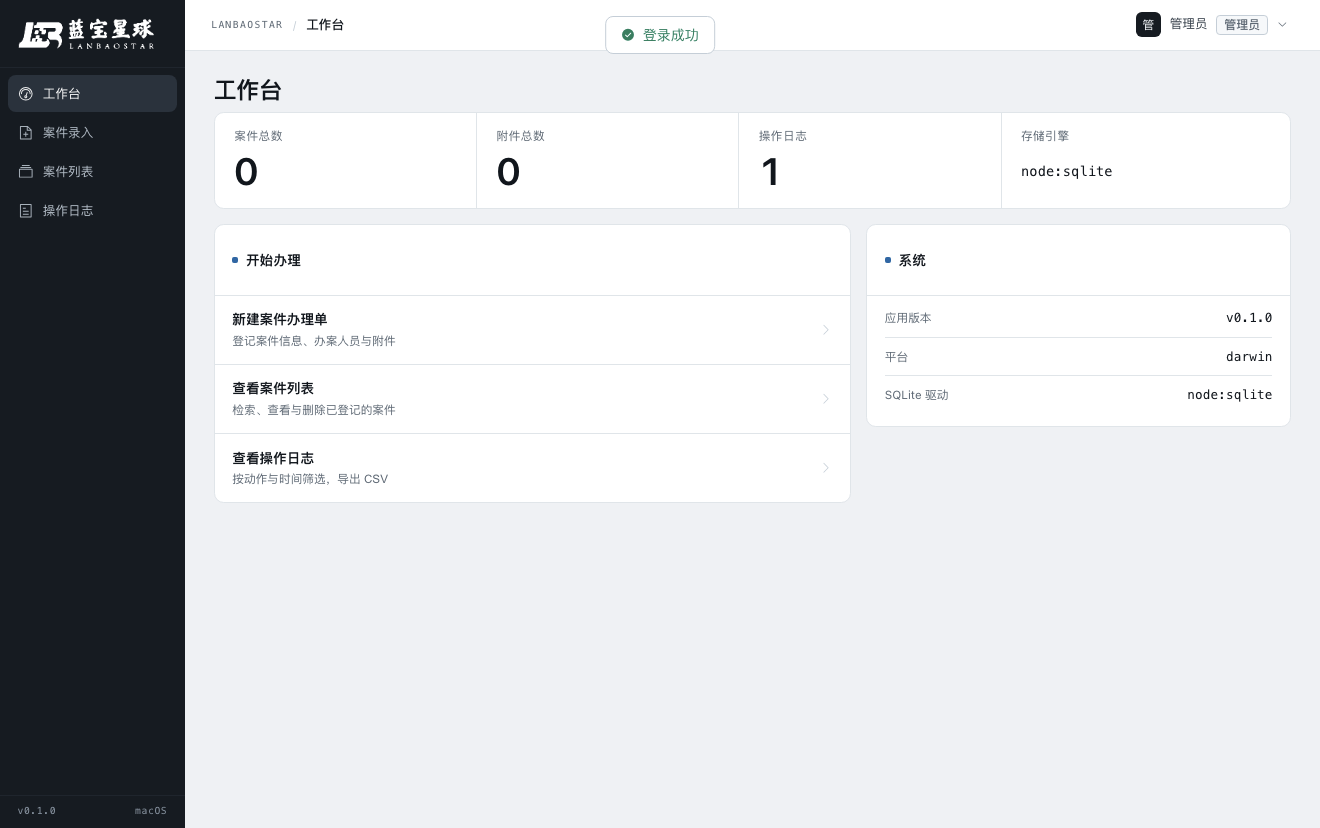
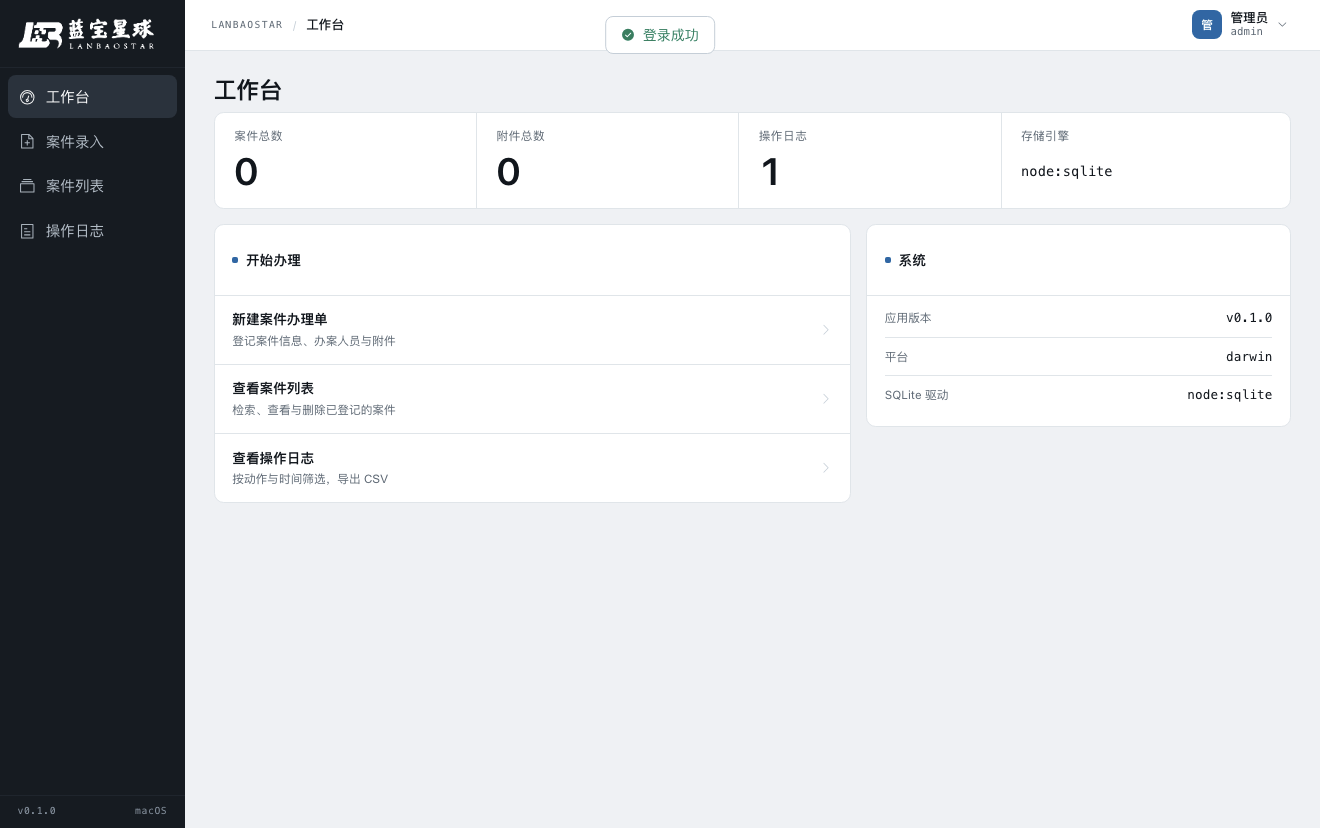
style: 登录页粒子星图、放大侧栏字号、重做顶栏用户区
- 新增 ParticleField.vue（canvas 星图，ResizeObserver + DPR，reduced-motion 只画一帧）
- 侧栏导航 13px -> 15px，行高 2.75rem
- 顶栏用户区改为 主色头像 + 姓名 + 等宽用户名，去掉重复的角色标签
- 重出 dmg / win zip，e2e 42 项与 detector 均通过

Changed region(s): [[0.0, 0.0906, 0.1242, 0.3019], [0.8386, 0.0, 0.9629, 0.0604]]

diff --git a/src/renderer/src/components/ParticleField.vue b/src/renderer/src/components/ParticleField.vue
@@ -1,0 +1,123 @@
+<template>
+  <canvas ref="canvasRef" class="particles" aria-hidden="true"></canvas>
+</template>
+
+<script setup lang="ts">
+import { onBeforeUnmount, onMounted, ref } from 'vue'
+
+interface Dot {
+  x: number
+  y: number
+  vx: number
+  vy: number
+  r: number
+}
+
+const canvasRef = ref<HTMLCanvasElement>()
+let raf = 0
+let resize: ResizeObserver | undefined
+let dots: Dot[] = []
+let width = 0
+let height = 0
+let dpr = 1
+
+const COUNT = 44
+const LINK_DISTANCE = 140
+
+function seed(): Dot[] {
+  return Array.from({ length: COUNT }, () => ({
+    x: Math.random() * width,
+    y: Math.random() * height,
+    vx: (Math.random() - 0.5) * 0.18,
+    vy: (Math.random() - 0.5) * 0.18,
+    r: Math.random() * 1.3 + 0.6
+  }))
+}
+
+function draw(): void {
+  const canvas = canvasRef.value
+  const ctx = canvas?.getContext('2d')
+  if (!canvas || !ctx) return
+
+  ctx.setTransform(dpr, 0, 0, dpr, 0, 0)
+  ctx.clearRect(0, 0, width, height)
+
+  for (const dot of dots) {
+    dot.x += dot.vx
+    dot.y += dot.vy
+    if (dot.x < 0 || dot.x > width) dot.vx *= -1
+    if (dot.y < 0 || dot.y > height) dot.vy *= -1
+  }
+
+  for (let i = 0; i < dots.length; i++) {
+    for (let j = i + 1; j < dots.length; j++) {
+      const dx = dots[i].x - dots[j].x
+      const dy = dots[i].y - dots[j].y
+      const dist = Math.hypot(dx, dy)
+      if (dist > LINK_DISTANCE) continue
+      ctx.strokeStyle = `rgba(122, 176, 214, ${(1 - dist / LINK_DISTANCE) * 0.2})`
+      ctx.lineWidth = 0.6
+      ctx.beginPath()
+      ctx.moveTo(dots[i].x, dots[i].y)
+      ctx.lineTo(dots[j].x, dots[j].y)
+      ctx.stroke()
+    }
+  }
+
+  for (const dot of dots) {
+    ctx.fillStyle = 'rgba(206, 226, 241, 0.62)'
+    ctx.beginPath()
+    ctx.arc(dot.x, dot.y, dot.r, 0, Math.PI * 2)
+    ctx.fill()
+  }
+}
+
+function loop(): void {
+  draw()
+  raf = requestAnimationFrame(loop)
+}
+
+function resizeCanvas(): void {
+  const canvas = canvasRef.value
+  const host = canvas?.parentElement
+  if (!canvas || !host) return
+  width = host.clientWidth
+  height = host.clientHeight
+  dpr = Math.min(window.devicePixelRatio || 1, 2)
+  canvas.width = Math.round(width * dpr)
+  canvas.height = Math.round(height * dpr)
+  canvas.style.width = `${width}px`
+  canvas.style.height = `${height}px`
+  if (dots.length === 0) dots = seed()
+}
+
+onMounted(() => {
+  resizeCanvas()
+  const host = canvasRef.value?.parentElement
+  if (host) {
+    resize = new ResizeObserver(() => resizeCanvas())
+    resize.observe(host)
+  }
+  const reduced = window.matchMedia('(prefers-reduced-motion: reduce)').matches
+  if (reduced) {
+    draw()
+  } else {
+    raf = requestAnimationFrame(loop)
+  }
+})
+
+onBeforeUnmount(() => {
+  cancelAnimationFrame(raf)
+  resize?.disconnect()
+})
+</script>
+
+<style scoped>
+.particles {
+  position: absolute;
+  inset: 0;
+  display: block;
+  pointer-events: none;
+  opacity: 0.9;
+}
+</style>

diff --git a/src/renderer/src/layout/AppLayout.vue b/src/renderer/src/layout/AppLayout.vue
@@ -36,10 +36,10 @@
         <el-dropdown trigger="click" @command="handleCommand">
           <span class="user-chip">
             <span class="avatar">{{ initial }}</span>
-            <span class="user-name">{{ session.user?.displayName }}</span>
-            <el-tag size="small" effect="plain" type="info">
-              {{ session.user?.role === 'admin' ? '管理员' : session.user?.role }}
-            </el-tag>
+            <span class="user-id">
+              <span class="user-name">{{ session.user?.displayName }}</span>
+              <span class="user-role mono">{{ session.user?.username }}</span>
+            </span>
             <el-icon class="chev"><ArrowDown /></el-icon>
           </span>
           <template #dropdown>
@@ -162,11 +162,11 @@ async function handleCommand(command: string): Promise<void> {
   display: flex;
   align-items: center;
   gap: 0.625rem;
-  min-height: 2.375rem;
-  padding: 0 0.625rem;
+  min-height: 2.75rem;
+  padding: 0 0.75rem;
   border-radius: var(--r-md);
   color: var(--night-text);
-  font-size: 0.8125rem;
+  font-size: 0.9375rem;
   text-decoration: none;
   position: relative;
   transition: color 0.16s ease, background-color 0.16s ease;
@@ -183,7 +183,7 @@ async function handleCommand(command: string): Promise<void> {
 }
 
 .nav-icon {
-  font-size: 1rem;
+  font-size: 1.0625rem;
   opacity: 0.92;
 }
 
@@ -250,19 +250,33 @@ async function handleCommand(command: string): Promise<void> {
 }
 
 .avatar {
-  width: 1.625rem;
-  height: 1.625rem;
+  width: 1.875rem;
+  height: 1.875rem;
   display: grid;
   place-items: center;
-  background: var(--night);
-  color: #f2f6fa;
+  background: var(--harbor);
+  color: #fff;
   font-size: 0.75rem;
-  border-radius: 0.375rem;
+  font-weight: 600;
+  border-radius: 0.5rem;
+}
+
+.user-id {
+  display: flex;
+  flex-direction: column;
+  gap: 0.0625rem;
+  line-height: 1.2;
 }
 
 .user-name {
   font-size: 0.8125rem;
-  color: var(--ink-2);
+  font-weight: 500;
+  color: var(--ink);
+}
+
+.user-role {
+  font-size: 0.6875rem;
+  color: var(--ink-3);
 }
 
 .chev {

diff --git a/src/renderer/src/views/LoginView.vue b/src/renderer/src/views/LoginView.vue
@@ -1,6 +1,7 @@
 <template>
   <div class="login">
     <aside class="cover">
+      <ParticleField />
       <header class="cover-head">
         <img class="logo" :src="logoLight" alt="蓝宝星球" />
       </header>
@@ -59,6 +60,7 @@ import { ElMessage, type FormInstance, type FormRules } from 'element-plus'
 import { Lock, User } from '@element-plus/icons-vue'
 import { setUser } from '@/stores/session'
 import logoLight from '@/assets/logo-light.png'
+import ParticleField from '@/components/ParticleField.vue'
 
 const router = useRouter()
 const route = useRoute()
@@ -128,6 +130,11 @@ async function submit(): Promise<void> {
   justify-content: space-between;
   padding: clamp(1.5rem, 3vw, 2.5rem);
   overflow: hidden;
+}
+
+.cover > :not(.particles) {
+  position: relative;
+  z-index: 1;
 }
 
 .cover::before {

diff --git a/DESIGN.md b/DESIGN.md
@@ -81,14 +81,19 @@
 
 - 按钮：主色实心 / 白底描边两档；hover 加深、disabled 降透明度且不可点；表格内操作用 `link` 文本按钮。
 - 输入：1px 内描边 `--rule`，hover 转 `--ink-3`，focus 转 `--harbor`（不叠加外发光）；禁用底 `#F4F7FA`。
-- 导航项：hover 底色 `--night-2`，选中 `--night-3` + 纯白文字，不加左侧彩色条。
+- 导航项：`min-height: 2.75rem`、字号 0.9375rem、图标 1.0625rem（字号随根字号缩放，不会在小窗口里缩成注释大小）；hover 底色 `--night-2`，选中 `--night-3` + 纯白文字，不加左侧彩色条。
+- 顶栏用户区：主色方形头像（首字）+ 第一行姓名、第二行等宽用户名（`--ink-3`、0.6875rem），不再重复展示角色——角色只出现在下拉菜单里。
 - 表格空状态：居中 mono 小标 `NO RECORDS` + 一句中文说明；附件空状态用 `EMPTY` 描边小签。二者 `line-height: 1.5`，避免继承 Element Plus 空块的行高。
 - 危险动作（删除、批量删除）走 danger 描边按钮 + 二次确认。
 - 焦点环：`2px solid var(--harbor)`，偏移 2px，仅键盘可见。
 
 ## 动效
 
-只保留两处：导航项与面板行在 160ms 内完成底色/颜色变化，行尾箭头在 hover 时右移 0.1875rem；`prefers-reduced-motion: reduce` 时全部降为 0ms。
+三处，都有明确用途：
+
+1. 导航项与面板行在 160ms 内完成底色/颜色变化，行尾箭头 hover 右移 0.1875rem——回答「我在哪、能不能点」。
+2. 登录页封面的粒子星图（`src/renderer/src/components/ParticleField.vue`）：44 个缓慢漂移的点 + 140px 内的连边，用 canvas 绘制，点 `rgba(206,226,241,.62)`、线 `rgba(122,176,214)` 到 0.2 不透明度；密度与亮度都压在同层文字的对比之下，只做「港口夜航」的气氛，不与表单抢注意力。窗口尺寸变化时按 `ResizeObserver` 重算并乘 `devicePixelRatio`，且封面上所有内容都在粒子之上（`z-index: 1`）。
+3. 运行时 `prefers-reduced-motion: reduce` 时，前两处全部降为 0ms，粒子只画静止的一帧。
 
 ## 无障碍
 
